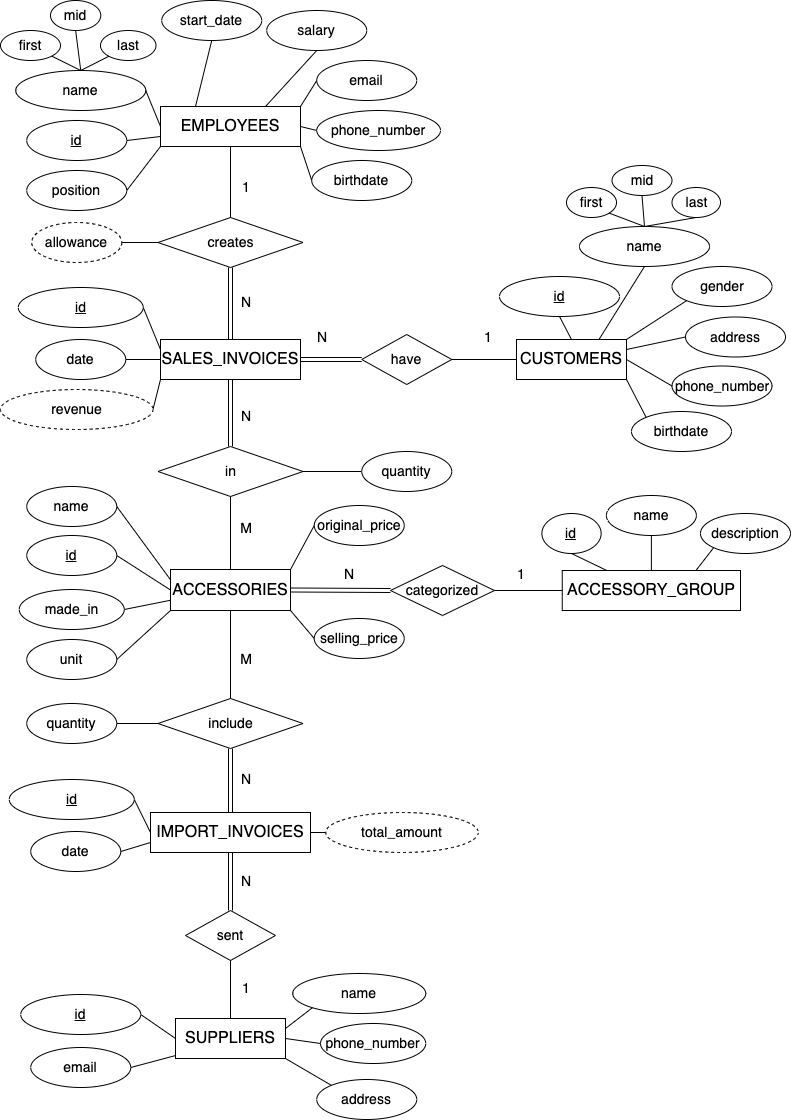
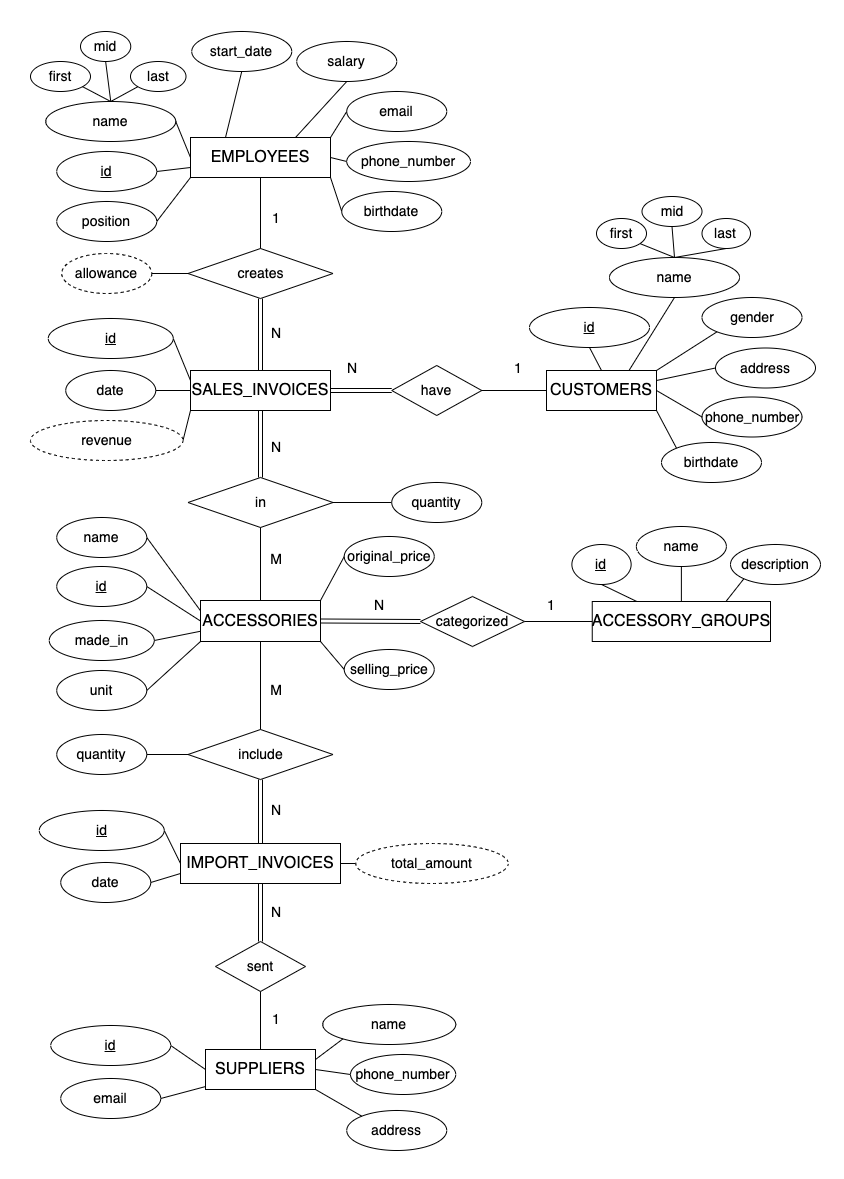
Update README.md with ERD entities and relationships

Changed region(s): [[0.0, 0.0, 0.6675, 1.0], [0.6068, 0.1562, 0.9709, 0.4062], [0.6675, 0.4375, 1.0, 0.5625]]

diff --git a/README.md b/README.md
@@ -26,6 +26,8 @@ After analyzing the requirements, an ERD was designed to visually represent the 
 
 ![ERD](figures/ERD.png)
 
+### Entities
+
 Here is a breakdown of the entities and their corresponding attributes represented in the ERD:
 
 1. **EMPLOYEES**:  This entity represents all employees working at the retail store.
@@ -62,13 +64,13 @@ Here is a breakdown of the entities and their corresponding attributes represent
    - **`selling_price`**: The selling price of the accessory.
 <br>
 
-4. **ACCESSORY_GROUP**: This entity groups multiple accessories together so they can be managed easily.
+4. **ACCESSORY_GROUPS**: This entity groups multiple accessories together so they can be managed easily.
     - **`id`**: A unique identifier for each group.
     - **`name`**: The name of the group.
     - **`description`**: Description about what the group contains.
 <br>
 
-5. **SALE_INVOICES**: Represents a sale transaction between employees and customers, containing details such as which products were sold,
+5. **SALES_INVOICES**: Represents a sale transaction between employees and customers, containing details such as which products were sold,
     - **`id`**: A unique identifier for the order.
     - **`date`**:The date when the order was placed.
 
@@ -83,3 +85,11 @@ Here is a breakdown of the entities and their corresponding attributes represent
     - **`id`**: A unique identifier for each invoice.
     - **`date`**: The date when the invoice was issued.
 
+### Relationships
+
+In addition to the attributes of each individual entity, relationships between entities may possess their own set of attributes, contributing to a more nuanced understanding of the interconnected data within the system.
+
+- **EMPLOYEES** and **SALES_INVOICES**: The relationship between employees and sales invoices is one-to-many, indicating that each employee can be associated with multiple sales invoices, while each sales invoice is tied to a single employee.
+- **CUSTOMERS** and **SALES_INVOICES**: The relationship between customers and sales invoices is one-to-many, signifying that each customer can have multiple sales invoices, while each sales invoice is linked to a single customer.
+- **ACCESSORIES** and **SALES_INVOICES**: The relationship between accessories and sales invoices is many-to-many, demonstrating that each sales invoice can contain multiple accessories, and each accessory can be present in multiple sales invoices.
+- **ACCESSORIES** and **ACCESSORY_GROUPS**: 
